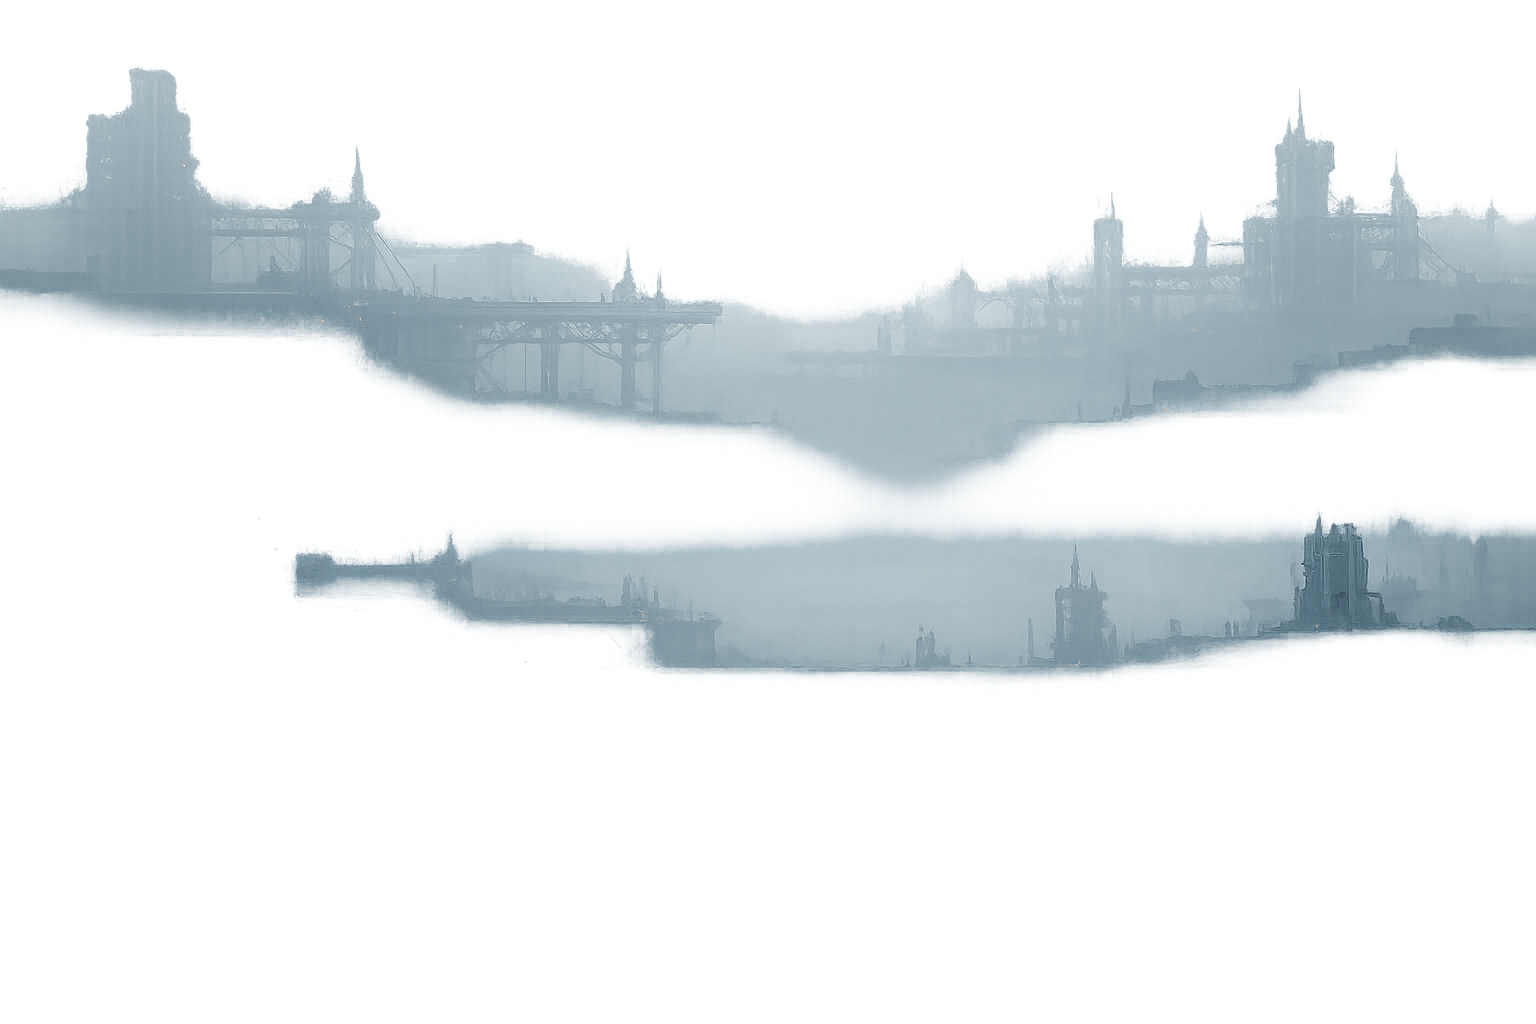
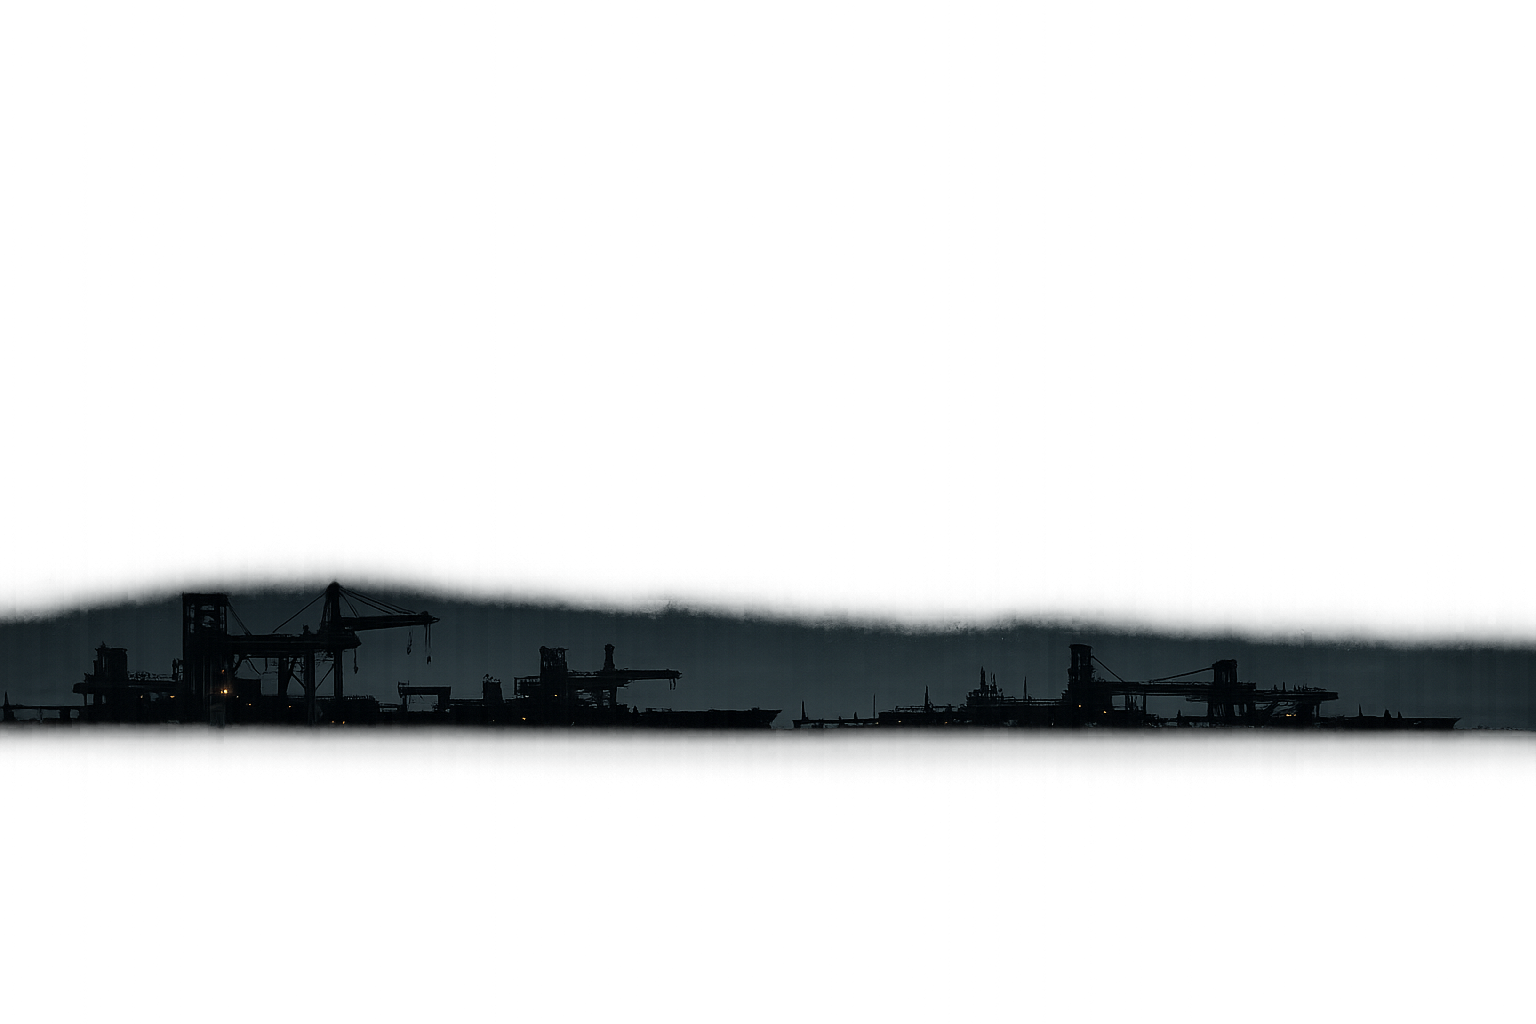
Silhouettes instead of fog, and a quieter sky
Replaces the far and haze layers and the sky, all three redrawn after a player
called the first pair an out of place super foggy graveyard.

The diagnosis was that arena_mid reads correctly and the other two did not,
because mid is dark structure with sodium lamps -- a silhouette -- while far and
haze were light fog on a dark sky. Weather, not distance. Canon agrees: the
Archive has the air above the storm layer as clear, cold and thin, so fog does
not belong at dock level at all.

Measured, the old far ran ~89 against a sky of ~60. The replacements run 31 and
10 against a sky of 57-75, so they recede on their own and the stopgap tint and
half-alpha that were holding them back are gone.

Two integration problems the measurement caught before they shipped:

The new sky is darker than the old one, 9/18/29/49/86, and at those values the
new far layer at 31 would have been indistinguishable from the sky at 29 in the
same band -- the silhouette would have vanished. Same shadow lift as before,
rebuilt from the untreated master, giving 17/35/57/75/95.

The new haze measures 10-12, darker than mid at 24-25, which inverts the depth
cue. Alpha 0.64 blends it toward the sky and lands it at 27, so the stack now
runs mid 25, haze 27, far 31, sky 57 -- a clean gradient from near-black to
nearly-sky as it recedes. Alpha is the only lever available here; tint multiplies
down and cannot lift anything.

Star clutter is down by roughly four fifths and the milky way band is gone,
[…]

diff --git a/src/render/Backdrop.ts b/src/render/Backdrop.ts
@@ -156,20 +156,15 @@ export class Backdrop {
     this.far = scene.add.tileSprite(0, 0, VIEW_W, 1024, 'arena_far');
     this.far.setOrigin(0, 0).setDepth(-90);
     /**
-     * **Held well back — a stopgap, not the fix.**
+     * No tint and no suppression: the art is already a dark silhouette.
      *
-     * The delivered far and haze layers are heavy grey fog banks, and against a
-     * clear starfield they read as an out-of-place graveyard rather than as
-     * distance. That is a content problem: the Archive has the air above the
-     * storm layer as "clear, cold and thin", so thick fog does not belong at
-     * dock level at all — haze belongs *below*, at the storm deck.
-     *
-     * Until they are redrawn, these two are pushed back hard: darker tint,
-     * lower alpha. It makes them recede rather than compete, but it cannot make
-     * fog into structure.
+     * The first far layer was a grey fog bank measuring luminance ~89 against a
+     * sky of ~60, so it glowed rather than receding and had to be held back with
+     * a dark tint at half alpha. The replacement is dock structure drawn as
+     * silhouette — 31 and 35 in the two bands it occupies, against a sky at 57
+     * and 75 — so it recedes on its own and needs nothing done to it.
      */
-    this.far.setTint(0x4a5578);
-    this.far.setAlpha(0.5);
+    this.far.setAlpha(1);
 
     // Mirrored to 3072 for the same reason as `far`: the delivered art ran off
     // both edges. Its structure sits in the lower two thirds of its own image,
@@ -177,9 +172,16 @@ export class Backdrop {
     // is the scroll rate, not the height.
     this.haze = scene.add.tileSprite(0, 0, VIEW_W, 1024, 'arena_haze');
     this.haze.setOrigin(0, 0).setDepth(-85);
-    // Same stopgap as `far`, one step less severe since it sits nearer.
-    this.haze.setTint(0x5d6b92);
-    this.haze.setAlpha(0.62);
+    /**
+     * Held at 0.64 to put it back in the right place in the depth order.
+     *
+     * As delivered it measures 10–12, which is *darker than `mid`* at 24–25 —
+     * inverted, because the middle-distance layer should not be blacker than the
+     * nearer one. Alpha blends it toward the sky behind, and 0.64 lands it near
+     * 27: between `mid` at 25 and `far` at 31, so the three read as a gradient
+     * from near-black to nearly-sky as they recede.
+     */
+    this.haze.setAlpha(0.64);
 
     // 1024, not 512: the hand-authored mid art is 1536x1024. A tile sprite
     // shorter than its texture crops rather than fits, so the strip has to match

diff --git a/assets/arenas/source/README.md b/assets/arenas/source/README.md
@@ -12,7 +12,7 @@ Art direction and the full specification live in `docs/STAGE_ART_BRIEF.md`.
 | --- | --- | --- | --- |
 | `arena_sky.png` | 3072 x 1024 | `sky_master_1536_lifted.png` | **Levels lifted, then mirrored.** See below. |
 | `arena_far.png` | 3072 x 1024 | `far_master_1536.png` | **Mirrored.** See below. |
-| `arena_haze.png` | 3072 x 1024 | `haze_master_1536.png` | **Mirrored**, same reason |
+| `arena_haze.png` | 3072 x 1024 | `haze_master_1536.png` | **Mirrored** |
 | `arena_mid.png` | 1536 x 1024 | `mid_master_1536.png` | Straight copy |
 | `arena_near.png` | 1536 x 1024 | `deck_master_1536.png` | Straight copy |
 | `arena_fore.png` | 1536 x 1024 | `fore_master_1536.png` | Straight copy |
@@ -102,9 +102,35 @@ print(sorted(tops)[len(tops)//2])   # -> NEAR_LIP_ROW
 * `blender_far/mid/near.png` — the original procedural strips built by
   `tools/blender/build_arena.py`, which these replaced.
 
+## The layers are silhouettes, not weather
+
+The first far and haze layers were grey fog banks, measuring luminance ~89
+against a sky of ~60 — brighter than their own sky, so they glowed instead of
+receding, and a player called them "an out of place super foggy graveyard".
+
+The rule that fixed it, and the one to hold new art to: **every structural layer
+must be DARKER than the sky behind it.** A silhouette recedes; anything paler
+than the sky is fog, and there is no fog at this altitude — the Archive has the
+air above the storm layer as "clear, cold and thin". Haze belongs at the storm
+deck far below, and nowhere else.
+
+The stack now runs as a depth gradient, measured in the bands each occupies:
+
+```
+  mid   25      nearest, near-black
+  haze  27      (10 in the asset, lifted by alpha 0.64 over the sky)
+  far   31
+  sky   57      the backdrop everything silhouettes against
+```
+
+`haze` needs that alpha because it was delivered *darker than `mid`*, which
+inverts the cue — a middle-distance layer has no business being blacker than a
+nearer one. Alpha blends it toward the sky, which is the only direction available:
+tint multiplies down and cannot lift anything.
+
 ## Expect tiling to fail
 
-Five of the six delivered layers did not tile. Two happened to be safe because
+Eight of the nine delivered layers did not tile. Two happened to be safe because
 their structure did not reach the image edges; the far layer had to be mirrored.
 **Assume seamlessness is the engine's job, not the generator's**, and measure it
 rather than trusting it:
